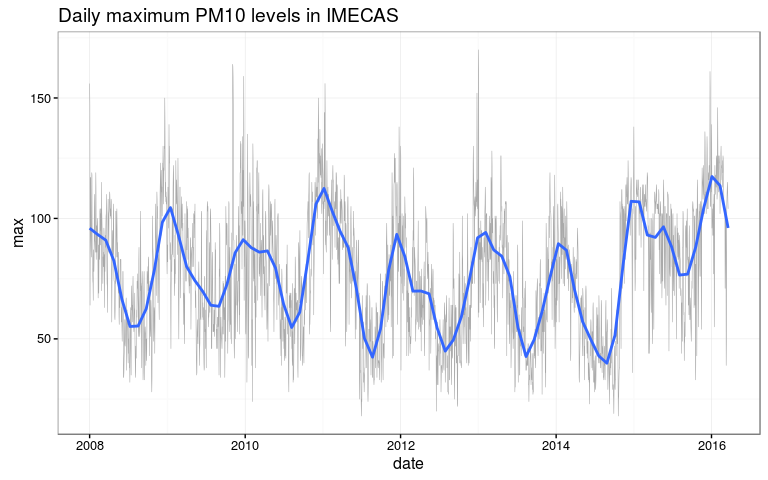
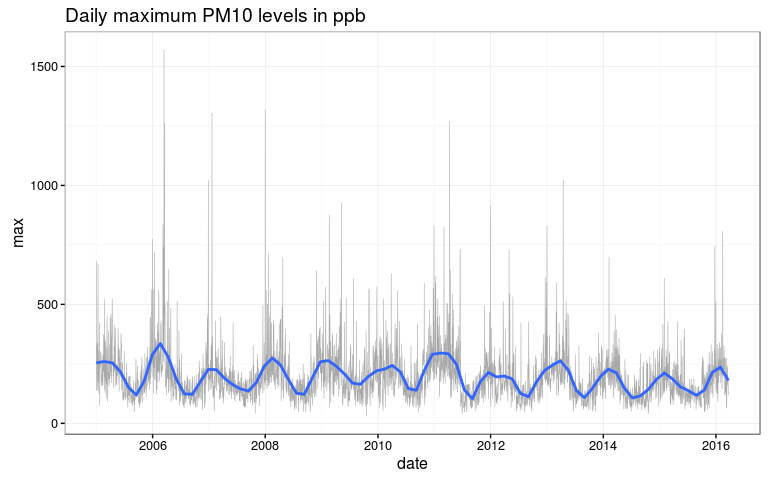
better readme

diff --git a/readme.md b/readme.md
@@ -37,7 +37,7 @@ Master: [![Travis-CI Build Status](https://travis-ci.org/diegovalle/aire.zmvm.sv
 What does it do?
 ----------------
 
-This package downloads pollution data for the Mexico City metro area. It can download the daily maximum, minimum, or average for each of the pollution measuring stations in the Zona Metropolitana del Valle de Mexico
+This package downloads pollution data for the Mexico City metro area. It can download the daily maximum, minimum, or average for each of the pollution measuring stations or geographical zones in the Zona Metropolitana del Valle de Mexico (greater Mexico City)
 
 Installation
 ------------
@@ -64,31 +64,28 @@ library("aire.zmvm")
 library("dplyr")
 library("ggplot2")
 
-# Download pm10 data since 2008 for all available zones ("TZ")
-pm_10 <- get_zone_data(criterion = "MAXIMOS", # Can be MAXIMOS (daily maximum) or HORARIOS (hourly average)
-                       pollutant = "PM10", # "SO2", "CO", "NO2", "O3", "PM10", "TC" (All pollutants)
-                       zone = "TZ", # "NO", "NE", "CE", "SO", "SE", "TZ" (All zones)
-                       start_date = "2008-01-01", # Can't be earlier than 2008-01-01
-                       end_date = "2016-03-19") # Can be up to the current date
+pm_10 <- get_station_data(criterion = "MAXIMOS", # Can be MAXIMOS (daily maximum), MINIMOS (daily minimum), or HORARIOS (hourly average)
+                       pollutant = "PM10", # "SO2", "CO", "NOX", "NO2", "NO", "O3", "PM10", "PM2", "WSP", "WDR", "TMP", "RH"
+                       year = 2005:2016) # The earliest year allowed is 2005
 knitr::kable(head(pm_10))
 ```
 
-| date       | zone | pollutant |  value|
-|:-----------|:-----|:----------|------:|
-| 2008-01-01 | NO   | PM10      |     70|
-| 2008-01-02 | NO   | PM10      |     57|
-| 2008-01-03 | NO   | PM10      |     48|
-| 2008-01-04 | NO   | PM10      |     68|
-| 2008-01-05 | NO   | PM10      |     72|
-| 2008-01-06 | NO   | PM10      |     63|
+| date       | station |  value|
+|:-----------|:--------|------:|
+| 2005-01-01 | ACO     |     NA|
+| 2005-01-02 | ACO     |     NA|
+| 2005-01-03 | ACO     |     NA|
+| 2005-01-04 | ACO     |     NA|
+| 2005-01-05 | ACO     |     NA|
+| 2005-01-06 | ACO     |     NA|
 
 ``` r
-# Plot the overall highest maximum pm10 level with trendline
+# Plot the daily highest pm10 level with trendline
 ggplot(pm_10 %>% group_by(date) %>% summarise(max = max(value, na.rm = TRUE)), 
        aes(date, max, group = 1)) +
   geom_line(color = "darkgray", size = .2) +
   geom_smooth(method = "gam", formula = y ~ s(x, k = 50), se = FALSE) +
-  ggtitle("Daily maximum PM10 levels in IMECAS") +
+  ggtitle("Daily maximum PM10 levels in ppb") +
   theme_bw()
 ```
 
